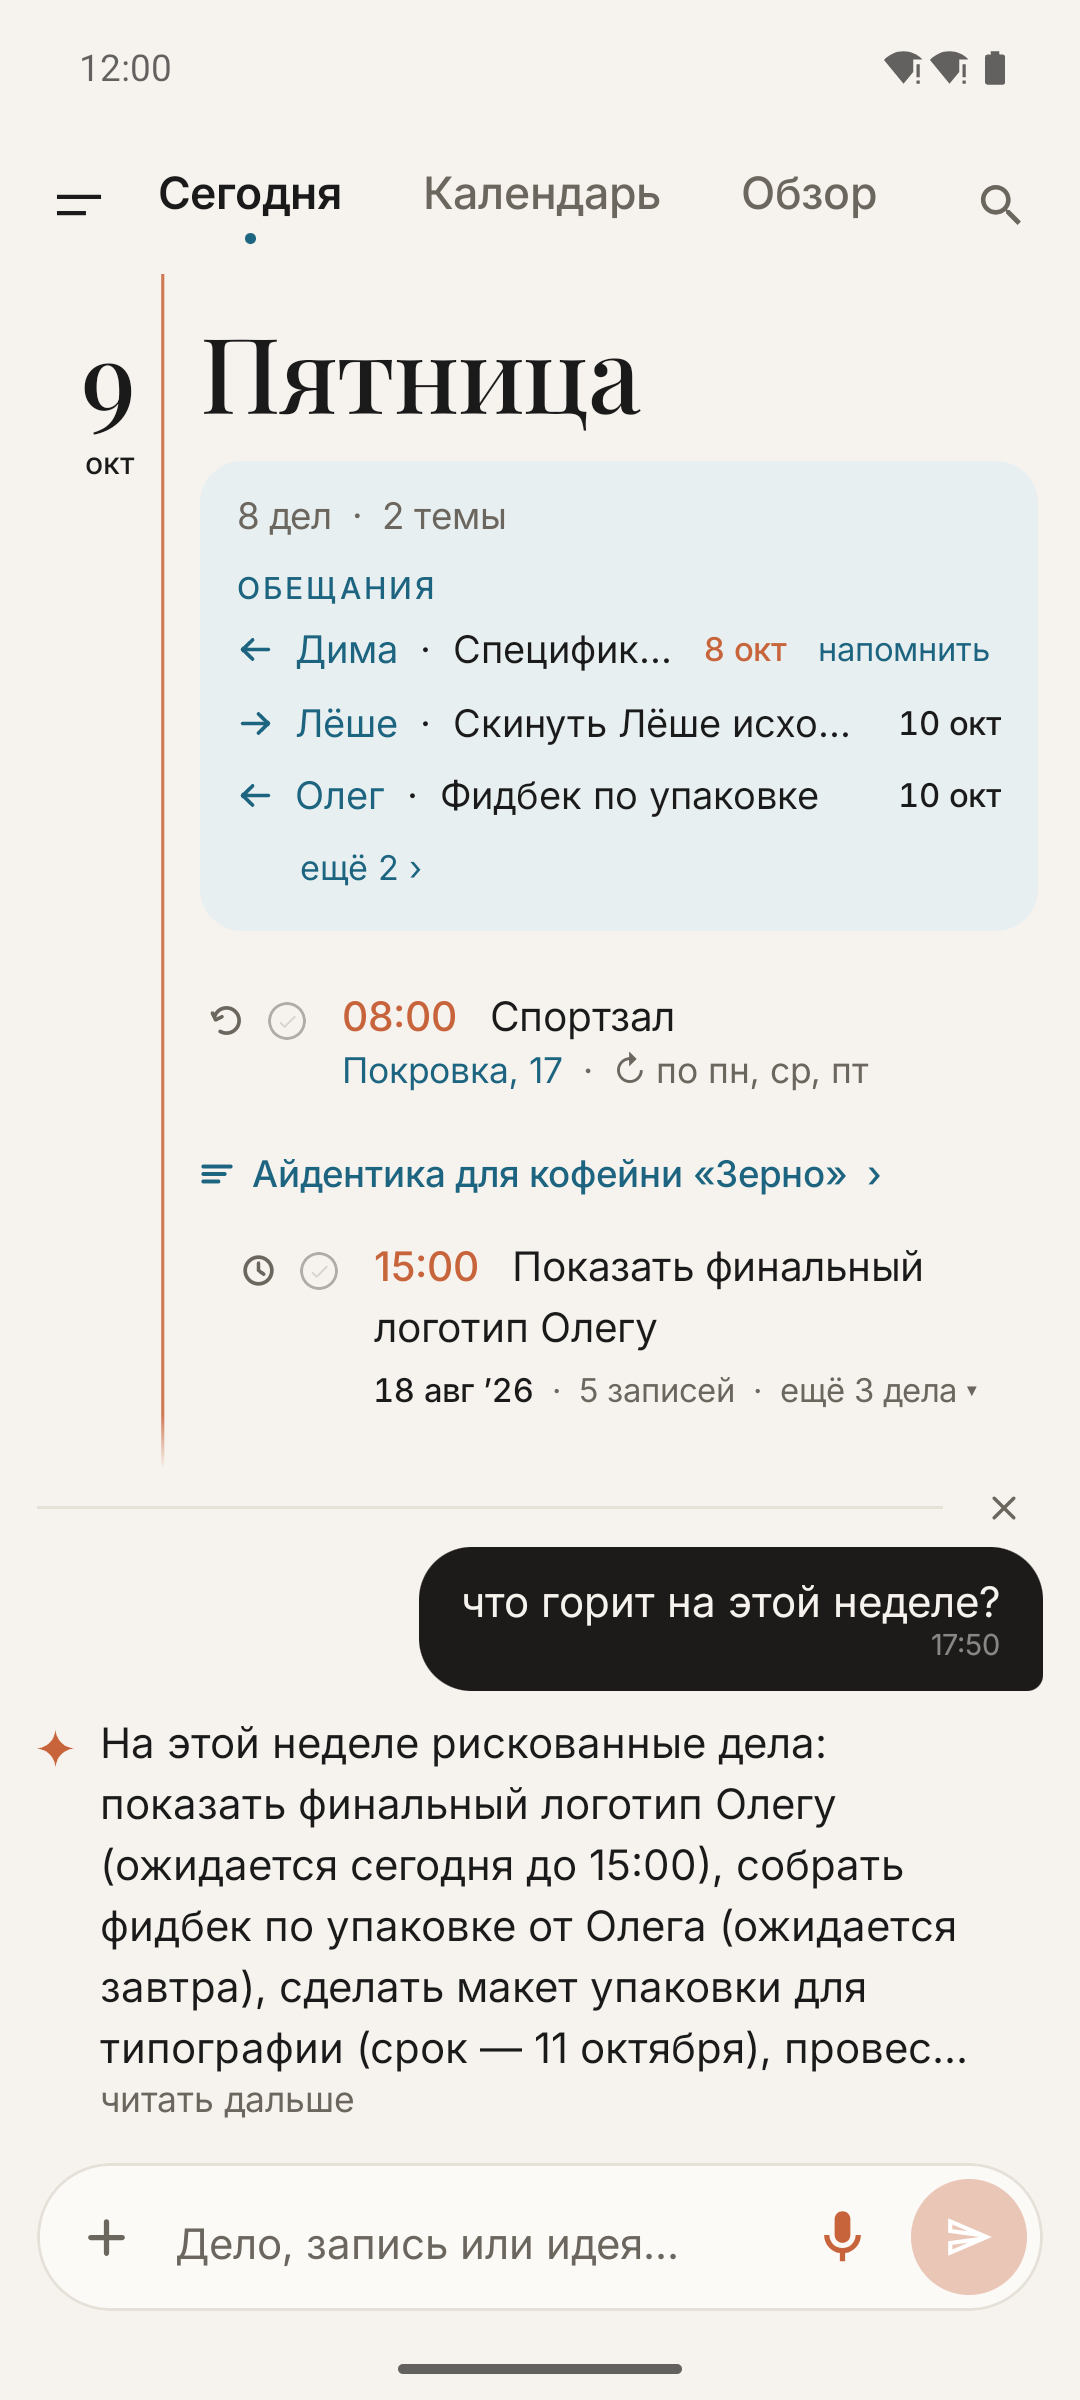
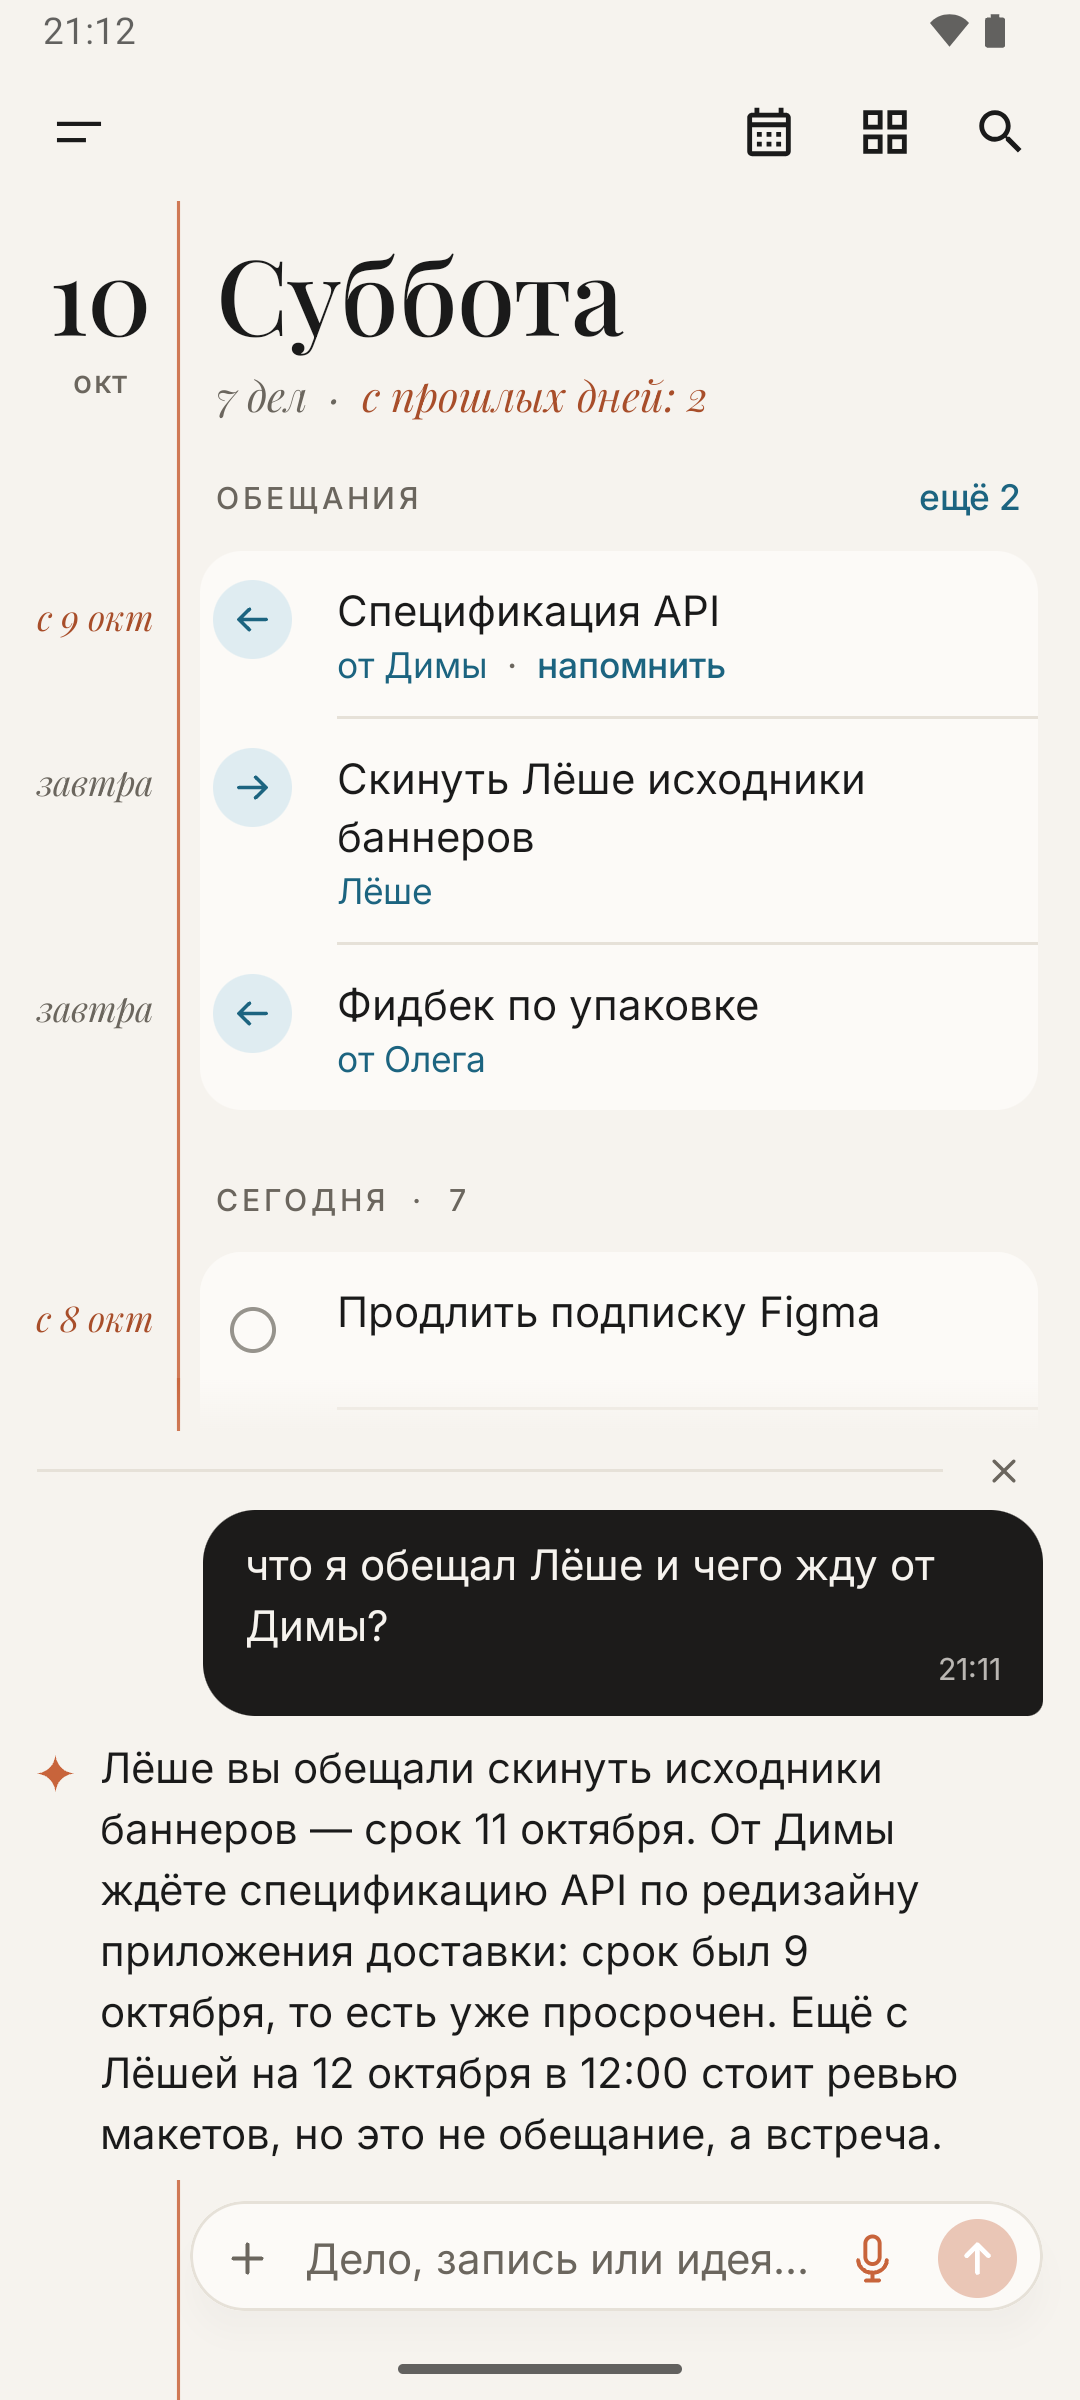
RuStore: скриншоты и описание под 0.34
Шесть новых снимков 1080×2400 на примере данных (Сегодня, ответ помощника, тема, карточка дела, «В Margin», календарь) и общий лист; в описании — поля «когда», тема под делом вместо блоков, «Что нового» для 0.34.

diff --git a/docs/rustore.md b/docs/rustore.md
@@ -22,10 +22,13 @@ Margin — ежедневник, в который пишут как в месс
 Обычные фразы Margin понимает прямо в телефоне, даже без интернета.
 
 Дела растут в темы
-Когда у дела появляется продолжение — запись, файл, второе дело, — оно само становится темой: лентой со всей историей, материалами и делами. На «Сегодня» дела одной темы идут блоком.
+Когда у дела появляется продолжение — запись, файл, второе дело, — оно само становится темой: лентой по дням со всей историей, материалами и делами. Под каждым делом на «Сегодня» видно, к какой теме оно относится.
 
 Кто кому что должен
 Margin замечает обещания в обе стороны: «Дима пришлёт макет в среду» — вы ждёте, «обещал Анне фото» — обещали вы. Сводка дня показывает, что горит, а просроченное чужое обещание можно напомнить одним касанием.
+
+Как в тетради
+Слева на полях — когда: час, день, «с 8 окт», если дело просрочено. Справа — что сделать, по разделам: обещания, сегодня, без даты. Сделанное остаётся в своём дне зачёркнутым — день виден честно.
 
 Всё под рукой
 — «Сегодня», «Календарь» и «Обзор»: что сейчас, что когда, что есть.
@@ -39,8 +42,8 @@ Margin замечает обещания в обе стороны: «Дима п
 
 Это закрытая альфа: мы будем благодарны за отзывы — кнопка «Отправить отзыв» в меню.
 
-## Что нового (альфа 0.24)
-Первая закрытая альфа. Встроенный ИИ-помощник, «Знакомство с Margin» при первом запуске, разбор пересланных сообщений с итогом.
+## Что нового (0.34)
+Новый вид всего приложения: на полях — только «когда», дела и разделы — на спокойных панелях, без плашек и бейджей. Сделанное остаётся в своём дне. Календарь и обзор — значками сверху, «Обзор» с вкладками и фильтрами «Ждём / Обещали / Работа / Личное». Тема — лента по дням. Карточка дела: срок на полях, инструменты «Когда · Повтор · Контакты · Место», комментарии. Обновлена «Помощь».
 
 ## Категория
 Продуктивность (или «Бизнес → Органайзеры», что ближе в каталоге RuStore)
@@ -59,10 +62,12 @@ Margin замечает обещания в обе стороны: «Дима п
 - Уведомления, точные будильники, запуск после перезагрузки — напоминания о делах.
 - Интернет — ИИ-помощник и распознавание речи и текста (Яндекс Облако).
 
-## Скриншоты (с демо-сборки, 1080×2400)
-1. «Сегодня» — сводка, обещания, дела темы блоком
-2. Ответ помощника: «что горит на этой неделе?»
-3. Тема — лента с записями и делами
-4. Карточка дела
-5. «В Margin» из Telegram — «Вот что получилось»
-6. Календарь
+## Скриншоты (0.34, пример данных, 1080×2400)
+1. «Сегодня» — на полях «когда», обещания и дела дня на панелях
+2. Ответ помощника: «что я обещал Лёше и чего жду от Димы?»
+3. Тема — лента по дням: записи, файлы, дела
+4. Карточка дела — ждём от Димы, «Напомнить Диме»
+5. «В Margin» из другого приложения — «Вот что получилось»
+6. Календарь — месяц и дела выбранного дня
+
+Все шесть одним листом — `rustore/all-screens.jpg`.
